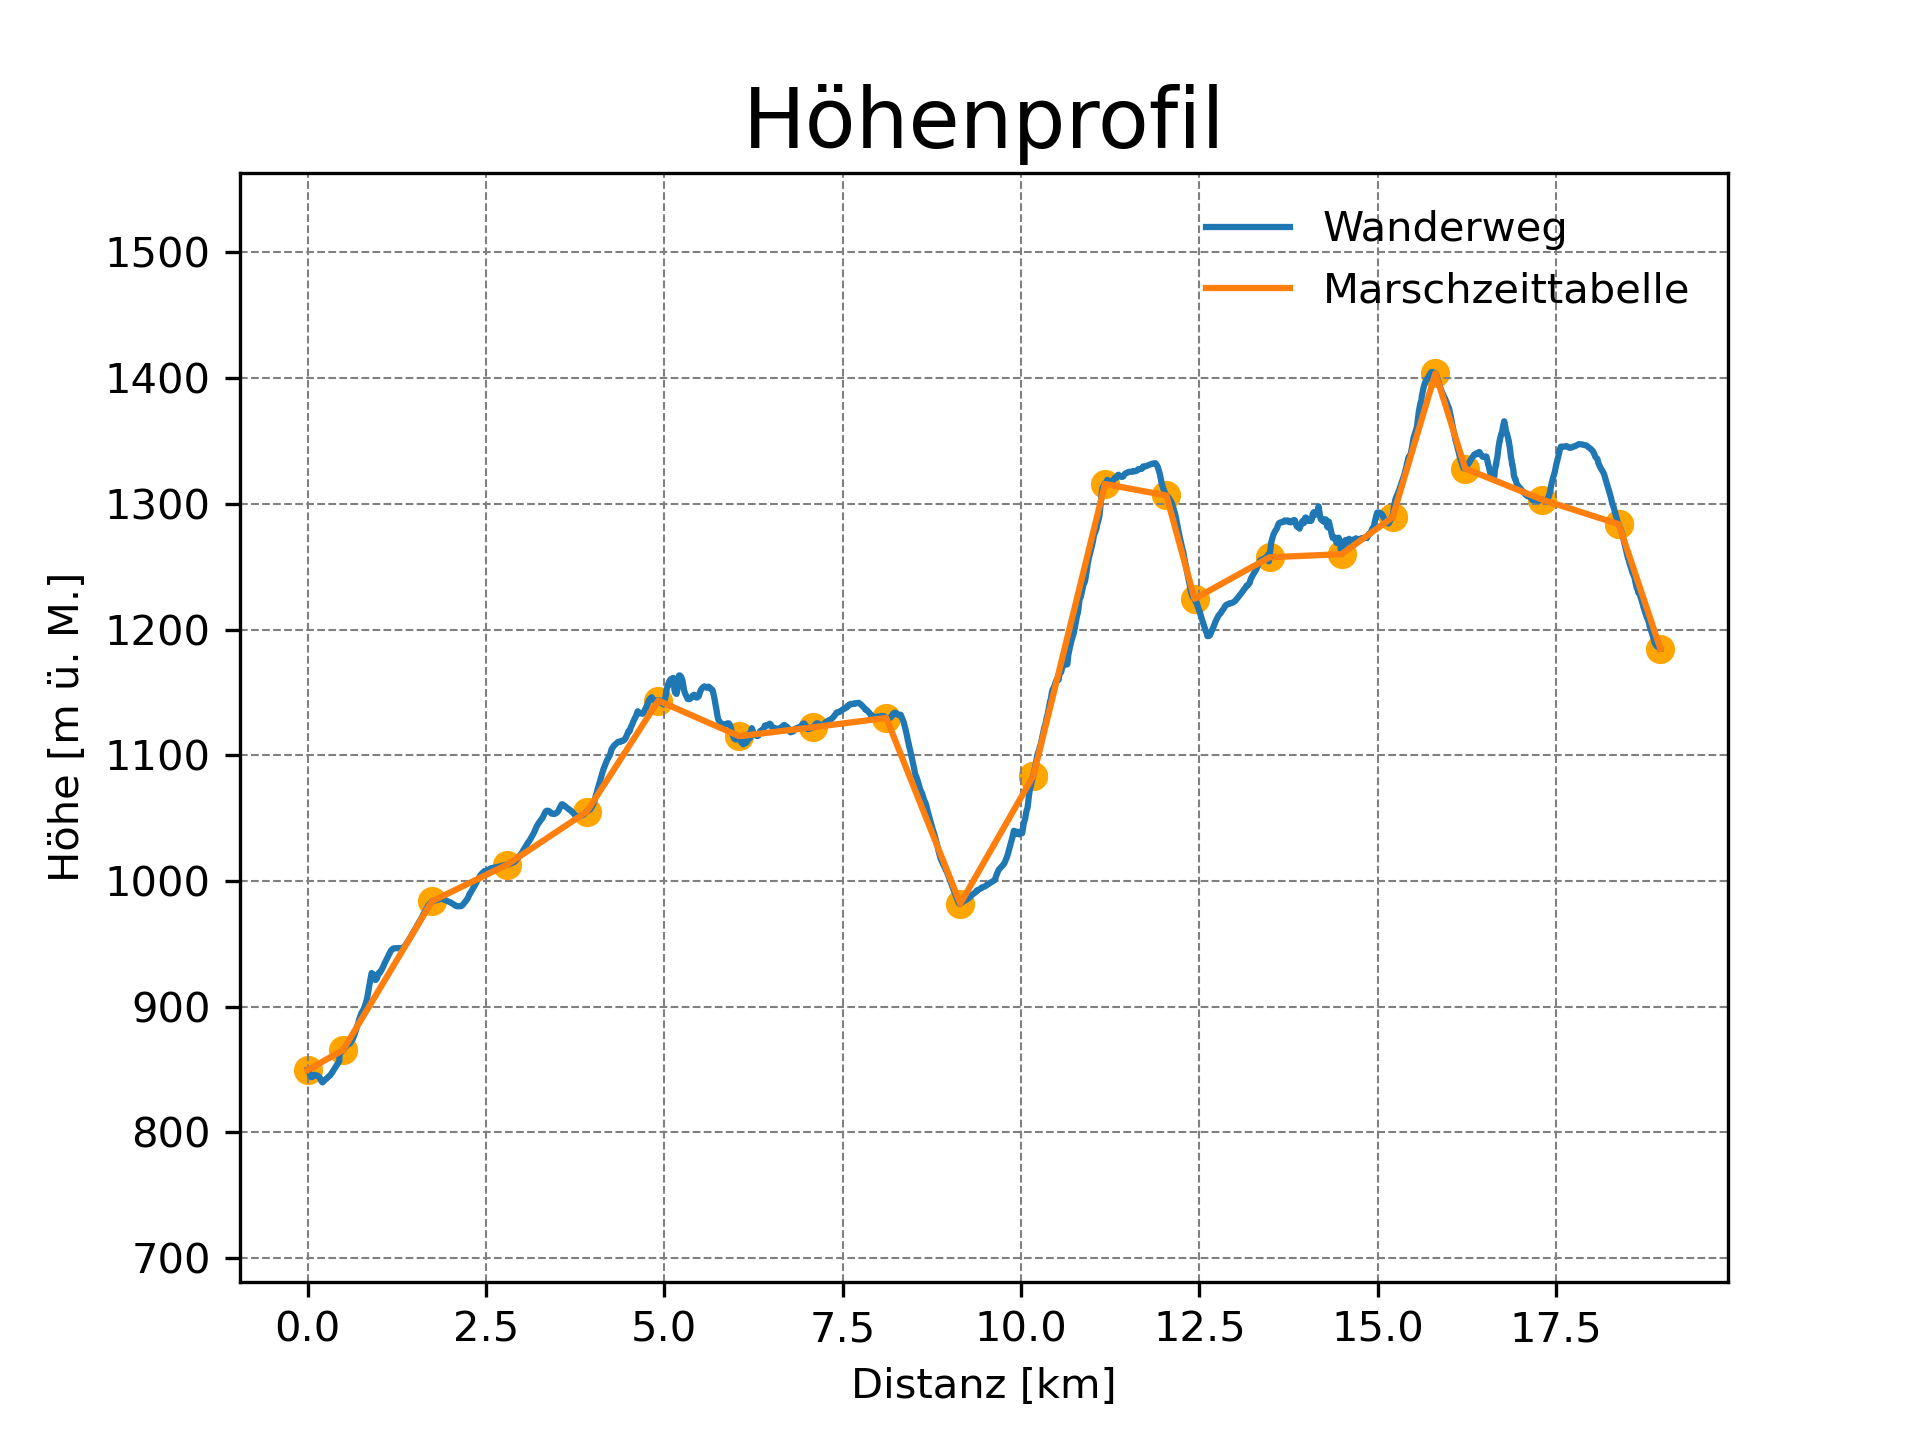
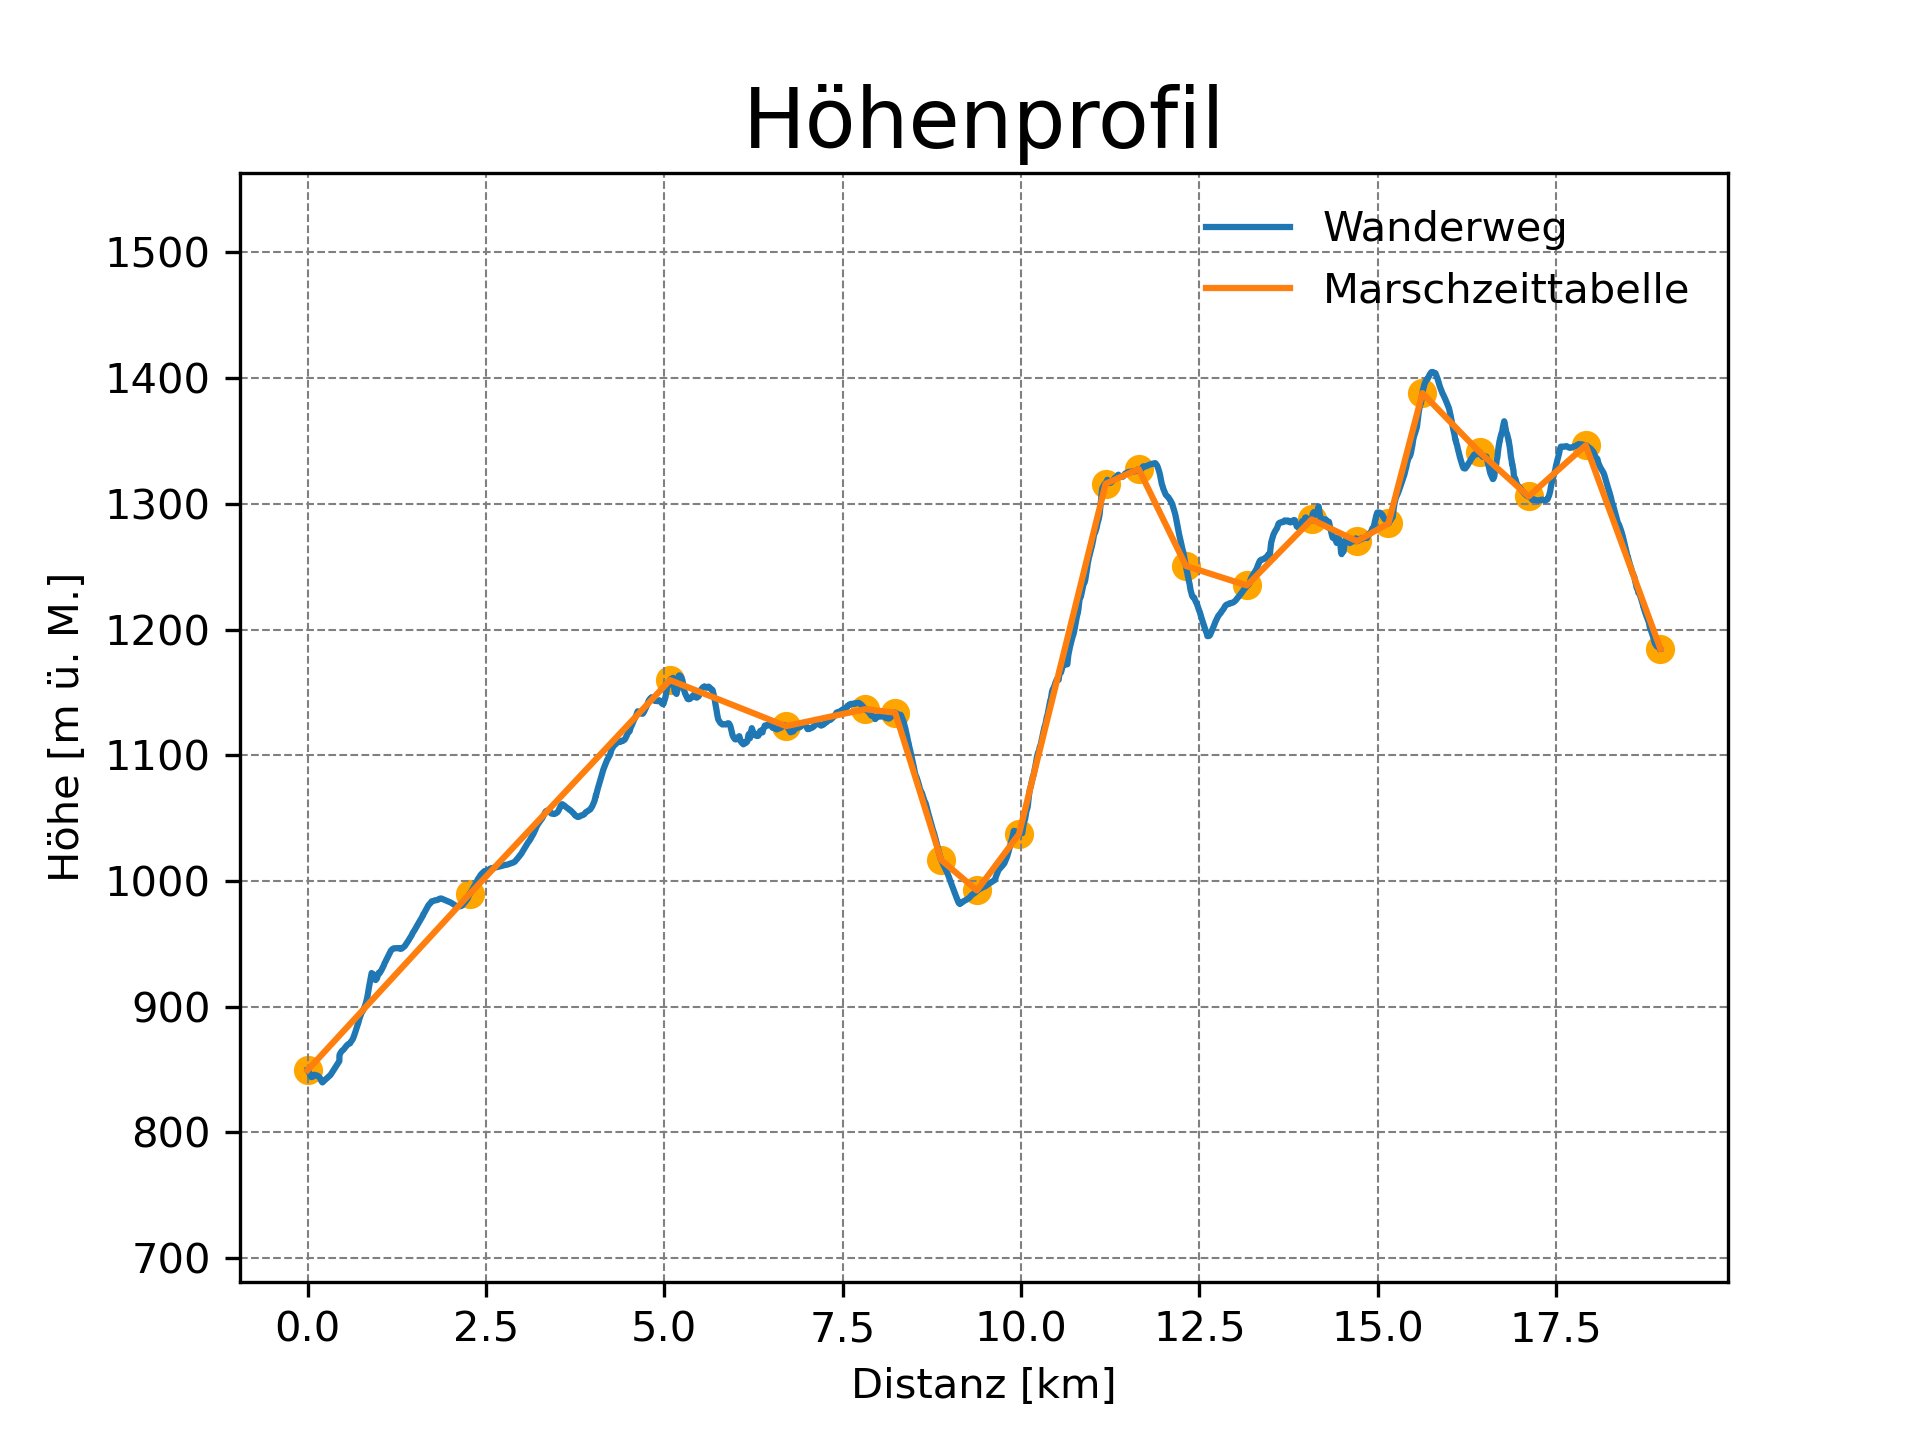
neues approximationsverfahren

diff --git a/find_walk_table_points.py b/find_walk_table_points.py
@@ -49,31 +49,44 @@ def find_points(gpx):
             way_points_walk_table.append((total_distance, segment.points[len(segment.points) - 1]))
 
     # remove points
-    current_point = None
     final_way_points_walk_table = [way_points_walk_table[0]]
-    max_heights_delta = max([h.elevation for h in segment.points]) - min([h.elevation for h in segment.points])
+    old_index = 0
 
-    for next_point in way_points_walk_table:
+    for i, point in enumerate(way_points_walk_table):
 
-        if current_point is not None:
+        old_point = final_way_points_walk_table[len(final_way_points_walk_table) - 1]
 
-            old_point = final_way_points_walk_table[len(final_way_points_walk_table) - 1]
+        if old_point == point:
+            continue
 
-            x1, y1 = old_point[0], old_point[1].elevation
-            x2, y2 = next_point[0], next_point[1].elevation
+        x1, y1 = old_point[0], old_point[1].elevation
+        x2, y2 = point[0], point[1].elevation
 
-            m = (y1 - y2) / (x1 - x2)
-            b = (x1 * y2 - x2 * y1) / (x1 - x2)
+        m = (y1 - y2) / (x1 - x2)
+        b = (x1 * y2 - x2 * y1) / (x1 - x2)
 
-            diff = abs(m * current_point[0] + b - current_point[1].elevation)
+        diff = 0
+        for j in range(old_index, i):
+            diff += abs(m * way_points_walk_table[j][0] + b - way_points_walk_table[j][1].elevation)
 
-            if diff > min(max_heights_delta * 0.05, 25):
-                final_way_points_walk_table.append(current_point)
+        diff /= float(i - old_index)
 
-            if (current_point[0] - old_point[0]) > 1:
-                final_way_points_walk_table.append(current_point)
+        if diff > 15 or point[0] - old_point[0] > 1.5:
 
-        current_point = next_point
+            new_index = int(old_index + 2.0 / 3.0 * (i - old_index))
+            new_point = way_points_walk_table[new_index]
+
+            if new_point[0] - old_point[0] > 0.25:
+                final_way_points_walk_table.append(new_point)
+
+            else:
+                new_index = int(old_index + 1.0 / 2.0 * (i - old_index))
+                new_point = way_points_walk_table[new_index]
+                final_way_points_walk_table.remove(old_point)
+                final_way_points_walk_table.append(new_point)
+
+            old_index = new_index
+
     final_way_points_walk_table.append(way_points_walk_table[len(way_points_walk_table) - 1])
 
     print('Anzahl Punkte: ' + str(len(final_way_points_walk_table)))

diff --git a/main.py b/main.py
@@ -15,7 +15,7 @@ from transformation import GPSConverter
 
 
 # creates a plot of the raw data points overlayed with the calculated way points
-def create_plot(raw_data_points, way_points, file_name):
+def create_plot(raw_data_points, way_points, temp_points, file_name):
     # plot heights of exported data from SchweizMobil
     distances, heights = prepare_for_plot(raw_data_points)
     plt.plot(distances, heights, label='Wanderweg')
@@ -25,6 +25,7 @@ def create_plot(raw_data_points, way_points, file_name):
     plt.ylim(ymax=max(heights) + additional_space, ymin=min(heights) - additional_space)
 
     # add way_points to plot
+   # plt.scatter([dist[0] for dist in temp_points], [height[1].elevation for height in temp_points], c='gray', )
     plt.scatter([dist[0] for dist in way_points], [height[1].elevation for height in way_points], c='orange', )
     plt.plot([dist[0] for dist in way_points], [height[1].elevation for height in way_points],
              label='Marschzeittabelle')
@@ -150,7 +151,7 @@ def load_map(coord):
 
 
 # Open GPX-File with the way-points
-gpx_file = open('hikesommerlager2020tag2.gpx', 'r')
+gpx_file = open('murgseentourtag2.gpx', 'r')
 gpx = gpxpy.parse(gpx_file)
 
 start_time = datetime(year=2020, month=8, day=10, hour=10, minute=00)
@@ -160,10 +161,10 @@ name = gpx.tracks[0].name
 
 # calc Points for walk table
 total_distance, temp_points, way_points_walk_table = find_points(gpx)
-create_plot(gpx, way_points_walk_table, file_name=name + '.png')
+create_plot(gpx, way_points_walk_table, temp_points, file_name=name + '.png')
 
 create_walk_table(start_time, 4.2)
 
 # load map
-# for point in way_points_walk_table:
-    # load_map(point[1])
+for point in way_points_walk_table:
+    load_map(point[1])
